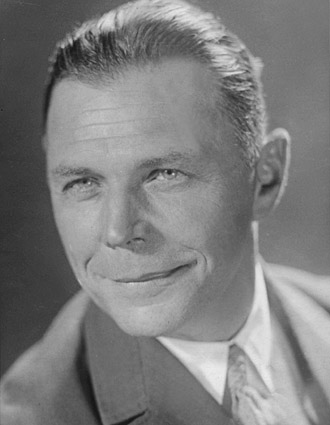
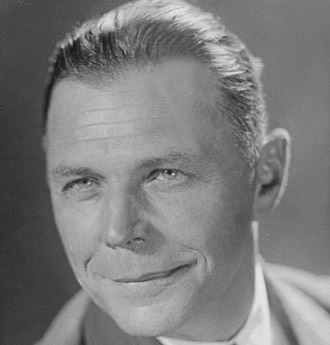
img css

diff --git a/src/data/filmakersInfo.js b/src/data/filmakersInfo.js
@@ -3,6 +3,7 @@ import aslukPhoto1 from '../img/asluk/aslukPhoto1.jpg';
 import aslukPhoto2 from '../img/asluk/aslukPhoto2.jpg';
 import aslukPhoto3 from '../img/asluk/aslukPhoto3.jpg';
 import aslukPhoto4 from '../img/asluk/aslukPhoto4.jpg';
+import aslukPhoto5 from '../img/asluk/aslukPhoto5.jpg';
 
 import dobrolubov from '../img/dobrolubov/dobrolubov.jpg';
 import dobrolubovPhoto1 from '../img/dobrolubov/dobrolubovPhoto1.jpg';
@@ -46,6 +47,7 @@ const filmakersInfo = [
             aslukPhoto2,
             aslukPhoto3,
             aslukPhoto4,
+            //aslukPhoto5
         ],
         links: [
             "https://www.youtube.com/embed/QcFzs7ry3SQ",

diff --git a/src/components/Person/Person.jsx b/src/components/Person/Person.jsx
@@ -14,7 +14,7 @@ const Person = (props) => {
         <div className={s.wrapper}>
             <h1>{t(name)}</h1>
             <div>({props.info.dateOfBirth} - {props.info.dateOfDeath})</div>
-            <img src={props.info.imgPath} alt=""/>
+            <img src={props.info.imgPath} alt="" className={s.avatar}/>
             <Timeline info={props.info}/>
             <Gallery photos={props.info.photos}/>
             <VideosList links={props.info.links}/>

diff --git a/src/components/List/Search/Card/Card.jsx b/src/components/List/Search/Card/Card.jsx
@@ -8,7 +8,7 @@ function Card(props) {
     const name = props.person.name_en.toLowerCase().split(' ').join('_');
     return(
         <div className={s.filmmaker}>
-            <NavLink to={props.person.url}><img alt="" src={props.person.imgPath} /></NavLink>
+            <NavLink to={props.person.url}><img alt="" src={props.person.imgPath}/></NavLink>
             <h2>{t(name)}</h2>
         </div>
     );

diff --git a/src/components/Person/MyMap/MyMap.jsx b/src/components/Person/MyMap/MyMap.jsx
@@ -7,8 +7,8 @@ import {useTranslation} from "react-i18next";
 
 const MyMap = (props) => {
     const {t} = useTranslation();
-    let width;
-    let height;
+    let width = "500px";
+    let height = "500px";
     if (window.innerWidth < 991) {
         width = "300px";
         height = "300px";

diff --git a/src/components/List/Search/Card/Card.module.css b/src/components/List/Search/Card/Card.module.css
@@ -1,4 +1,8 @@
+.filmmaker {
+    margin: 0 auto;
+}
+
 .filmmaker img {
-    width: 200px;
-    border-radius: 200px;
+    height: 200px;
+    border: 2px solid black;
 }

diff --git a/src/components/Person/Person.module.css b/src/components/Person/Person.module.css
@@ -2,6 +2,7 @@
     text-align: center;
 }
 
-.wrapper img {
-    width: 200px;
+.avatar {
+    height: 200px;
+    border: 2px solid black;
 }
